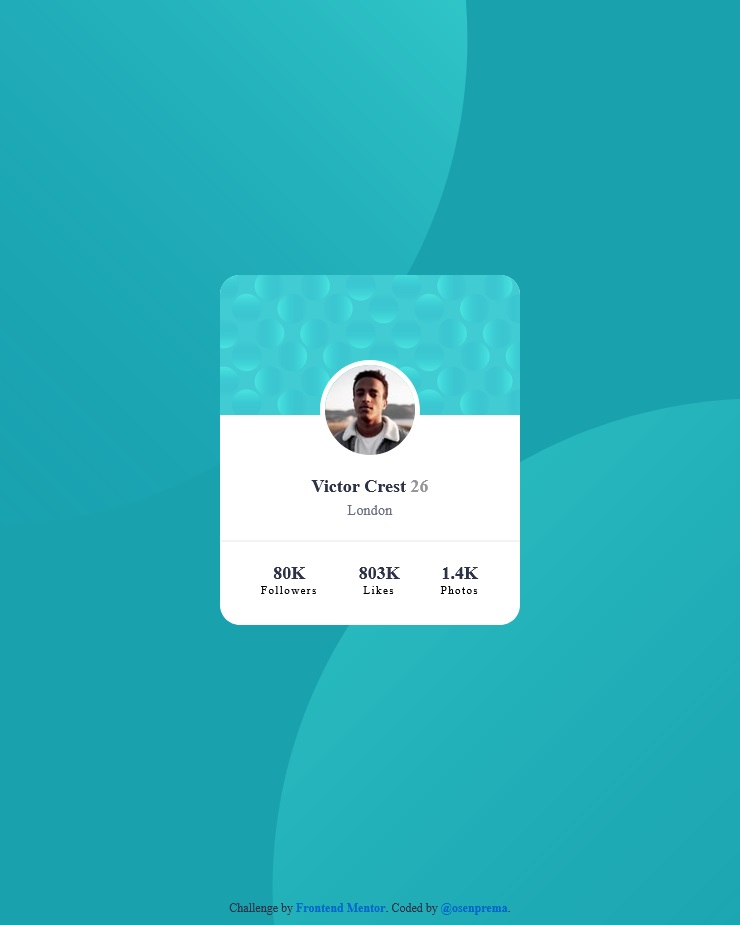
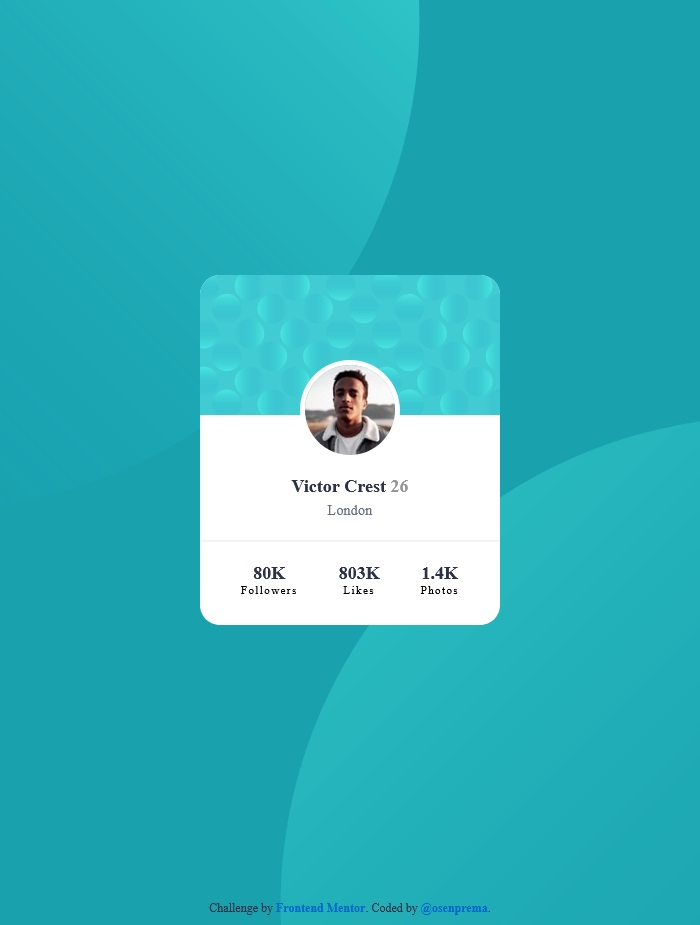
Update

diff --git a/css/styles.css b/css/styles.css
@@ -15,7 +15,7 @@ body {
   background-image: url("../assets/images/bg-pattern-top.svg"), url("../assets/images/bg-pattern-bottom.svg");
   background-repeat: no-repeat, no-repeat;
   background-color: #19a2ae;
-  background-position: right calc(100vw * 0.43) bottom calc(100vh * 0.43), left calc(100vw * 0.43) top calc(100vh * 0.43);
+  background-position: right calc(100vw*0.45) bottom calc(100vh*0.45), left calc(100vw*0.45) top calc(100vh*0.45);
   display: flex;
   flex-direction: column; }
 
